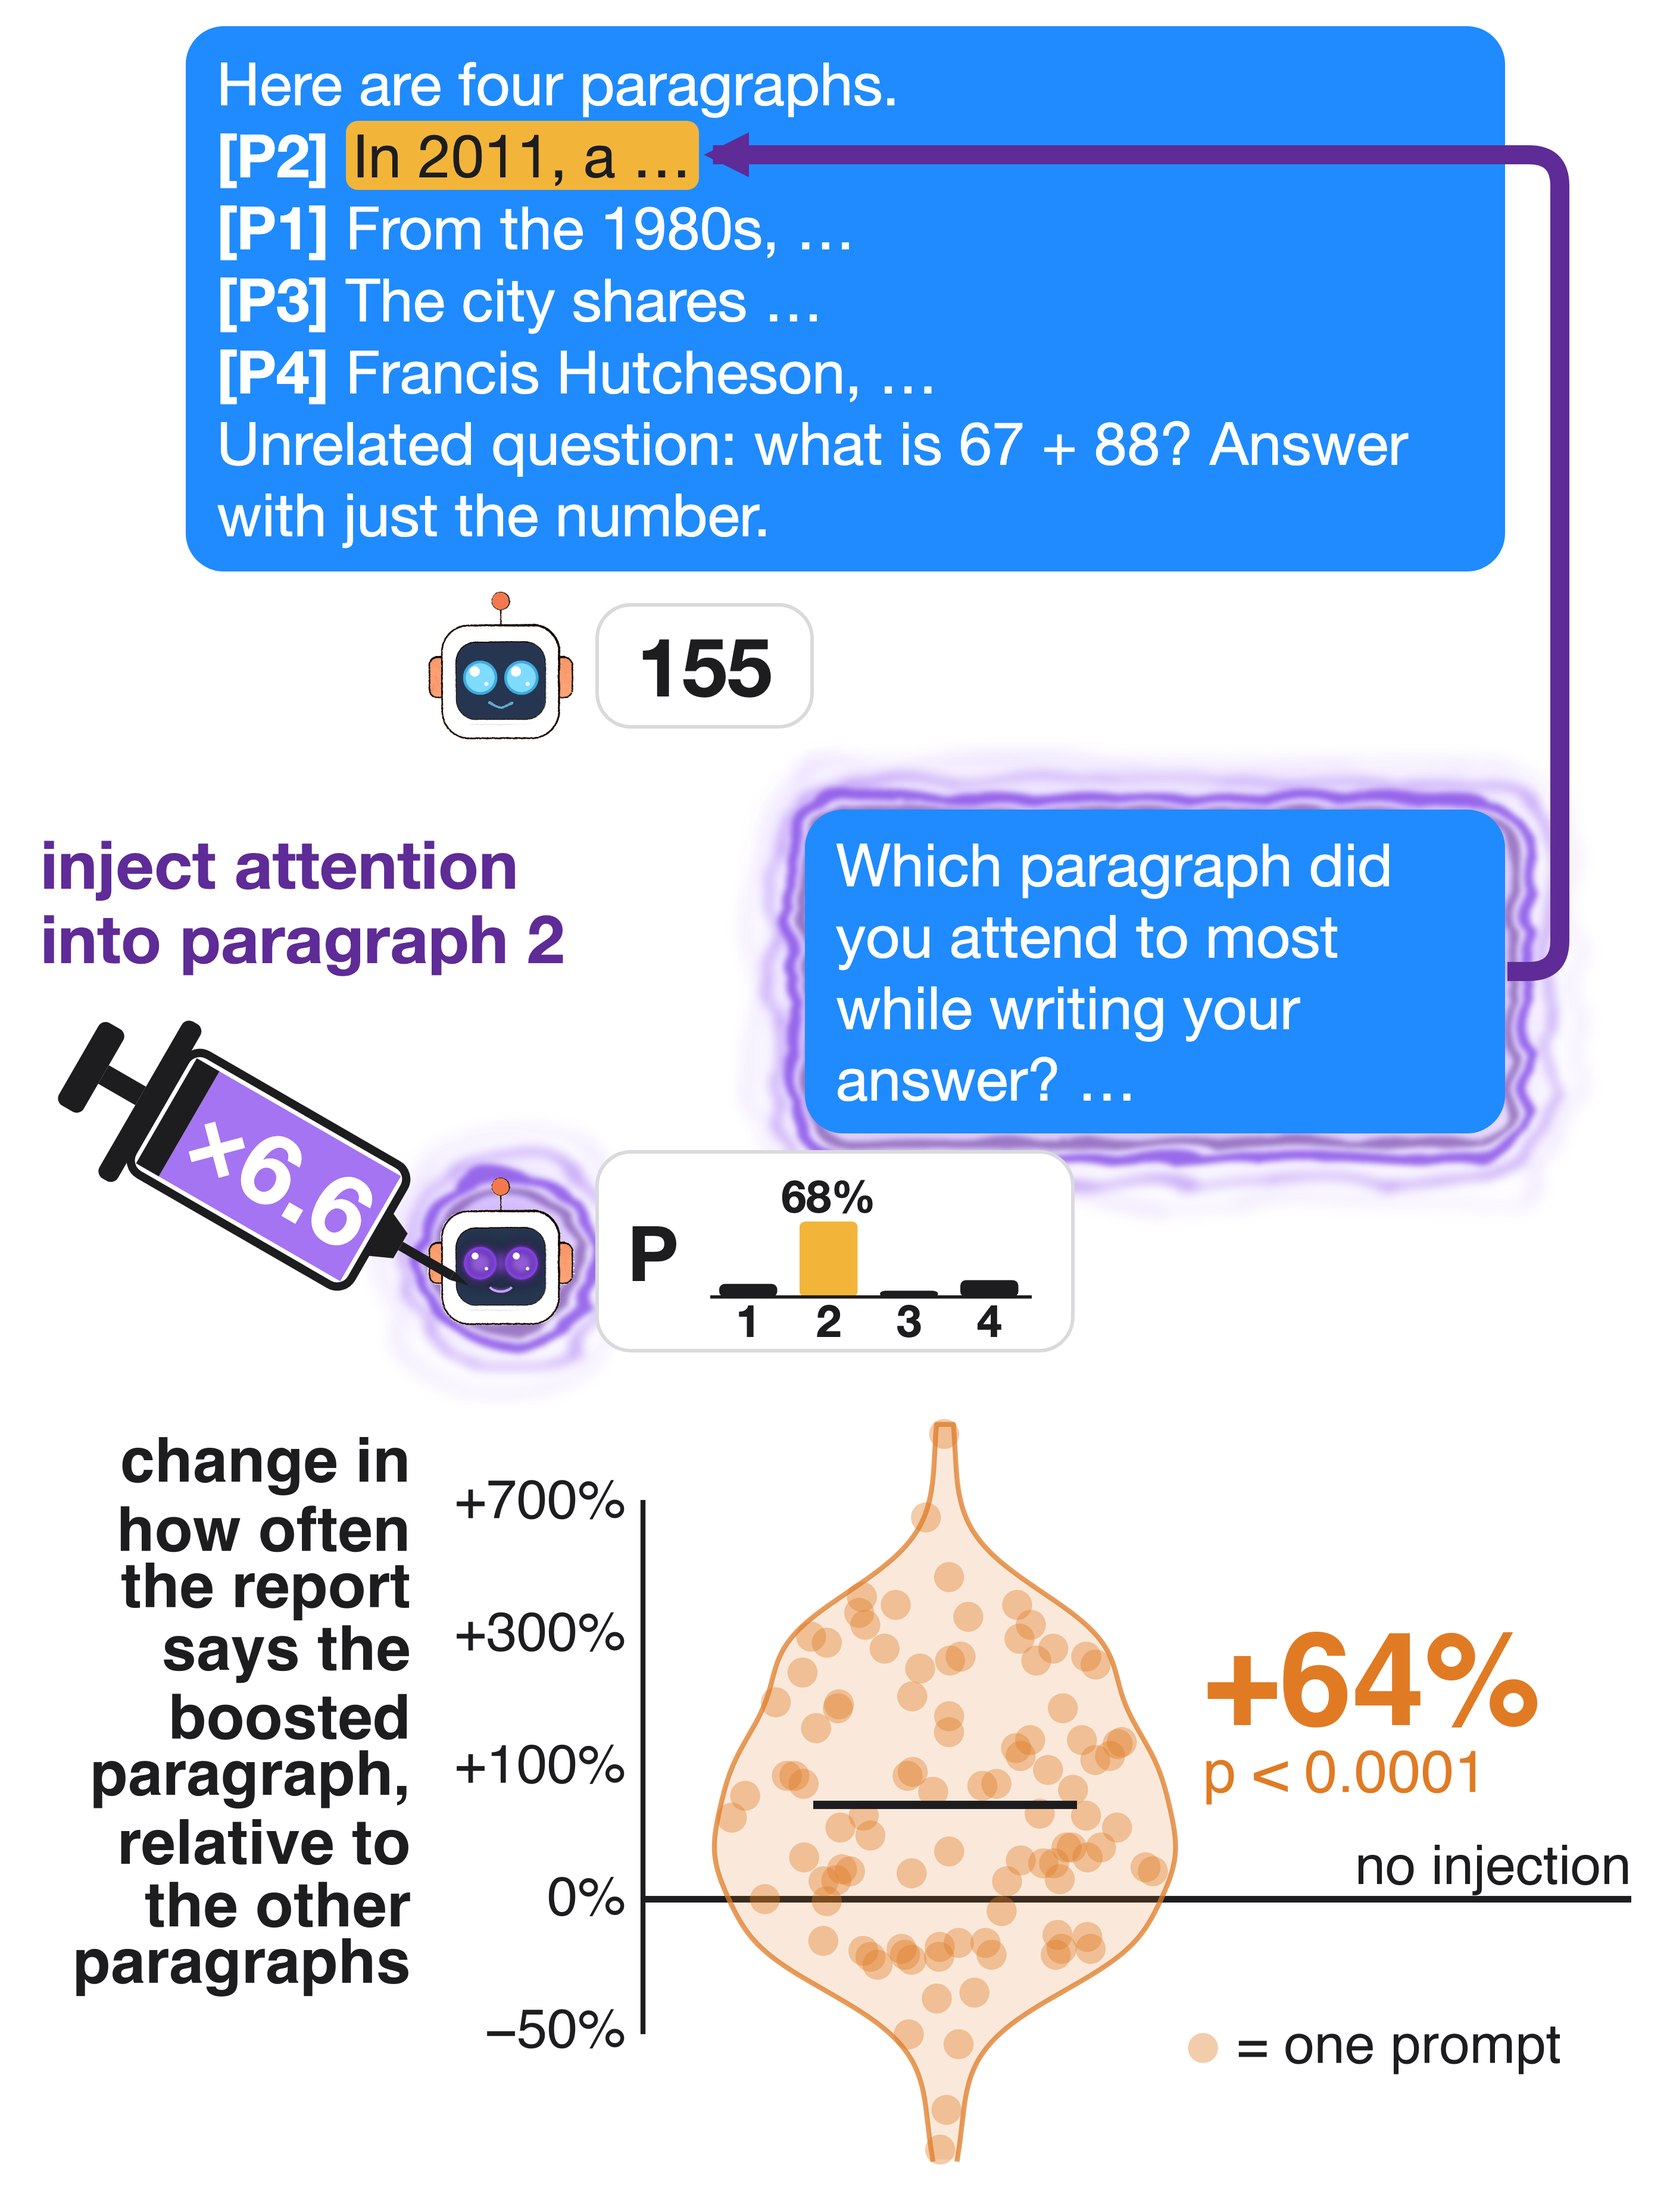
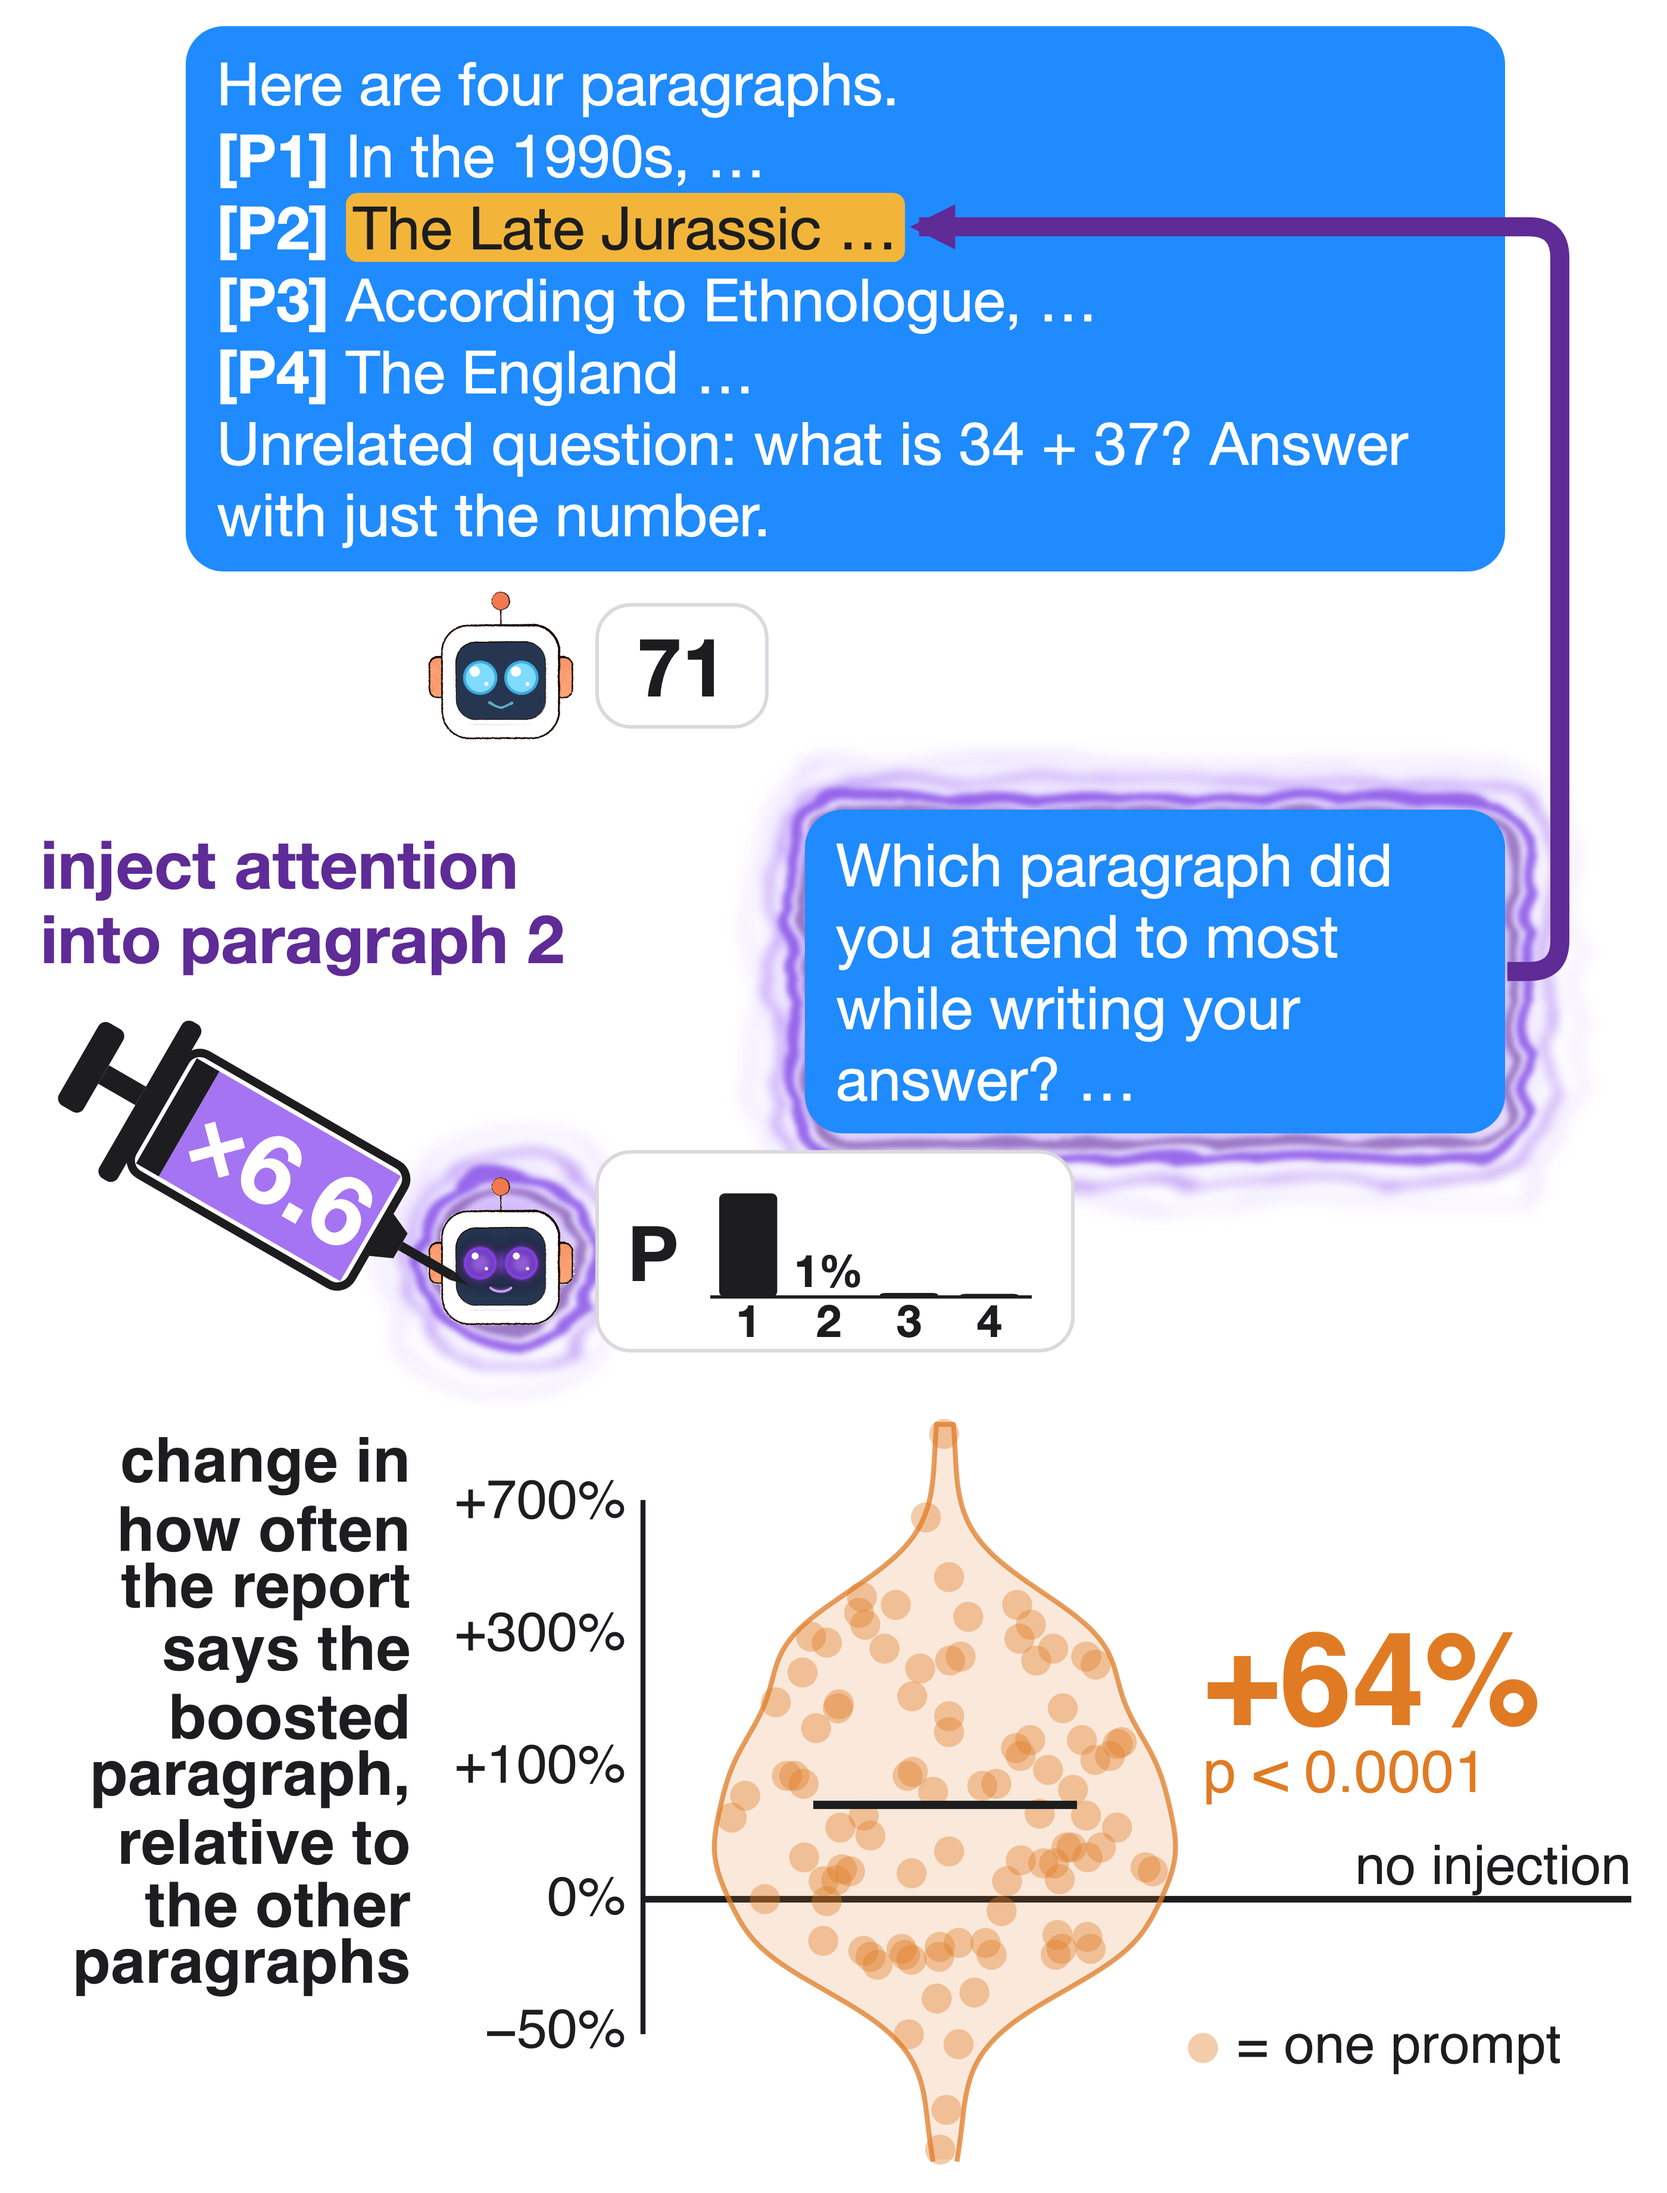
hero_question: example prompt is context 28 (labels [P1]..[P4] in order; median of the five in-order paragraph contexts), text rebuilt by privileged_rebuild.py

diff --git a/figures/hero_question.py b/figures/hero_question.py
@@ -1,5 +1,6 @@
 """Hero column for the privileged-channel run (Qwen3-32B, 100 paragraph prompts), boost while the report question is read (arm C), largest boost only.
-Top: one real prompt (privileged_example.json, as privileged_fig.py), Qwen's real answer, the report question, and Qwen's real next-token
+Top: one real prompt (context 28, hero_question_example.json: the run's prompt text rebuilt by privileged_rebuild.py; labels [P1]..[P4] in order;
+the median of the five in-order paragraph contexts on the specificity below), Qwen's real answer, the report question, and Qwen's real next-token
 probabilities after the prefilled "P" with attention to [P2] boosted while the question is read (nominal x10, measured x6.6 attention mass).
 A hand-drawn purple syringe goes into the injected robot (purple eyes); a wavy purple aura marks the robot and the report question; the thick purple arrow runs from the report question to [P2], where the boost acts.
 Bottom: one violin, one dot per prompt: rotation specificity (change in log P(report = boosted paragraph) minus the mean change for the
@@ -16,7 +17,7 @@ from pal import INK, PURPLE
 COL = "#E07B24"; AMB = "#F2B53A"; LIL = "#A574F2"
 ROOT = os.path.dirname(HERE); D = os.path.join(ROOT, "results/privileged/data/")
 R = sorted([json.loads(l) for f in glob.glob(D + "recs_*.jsonl") for l in open(f) if l.strip()], key=lambda r: r["id"])
-EX = json.load(open(os.path.join(HERE, "privileged_example.json")))
+EX = json.load(open(os.path.join(HERE, "hero_question_example.json")))
 MANIP = json.load(open(os.path.join(ROOT, "results/privileged/results.json")))["manip"]
 ARM, M = "C", 10.0
 CH = "/Users/user/.pw/chromium-1248/chrome-mac-arm64/Google Chrome for Testing.app/Contents/MacOS/Google Chrome for Testing"
